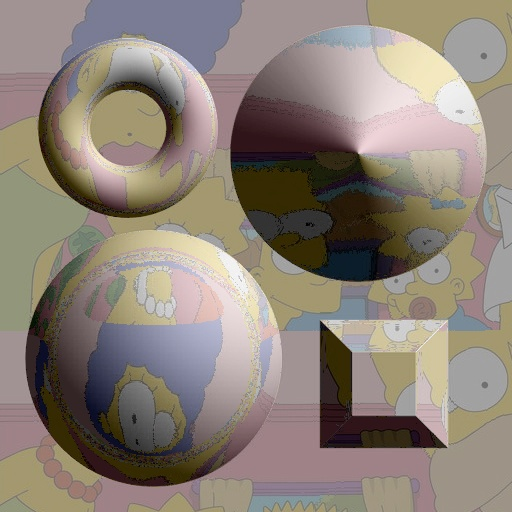
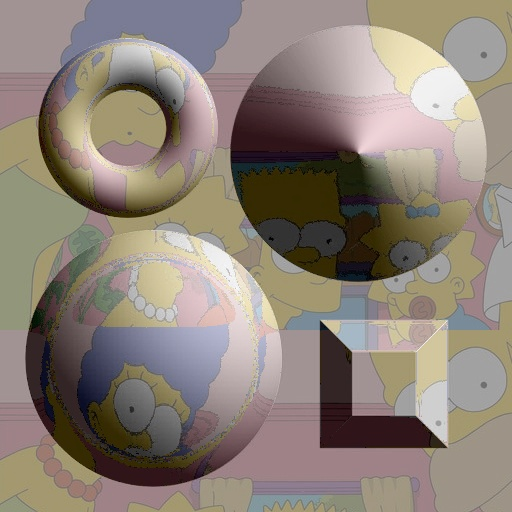
feat: add fresnel option

diff --git a/shaders.py b/shaders.py
@@ -3,7 +3,8 @@ import numpy as np
 import utils
 from constants import MAX_COLOR_VALUE, COLOR_FOR_LIGHT, COLOR_FOR_BORDER
 
-DISTANCE_TO_ENV_MAP = 10
+DISTANCE_TO_ENV_MAP = 5
+DISTANCE_TO_BACKGROUND_MAP = 120
 
 
 def shade(n, l):
@@ -162,9 +163,58 @@ def shade_refraction(n, l, kr, ior, i, j, background_arr):
     # This is just in case you want to try different values of d, it's actually
     # a trick to do this, since d would be different for each shading point
     # if cT is different for each shading point
-    d = 120
+    d = DISTANCE_TO_BACKGROUND_MAP
     i_prime = (int(round(aT * (d / cT))) + i) % w
     j_prime = (int(round(bT * (d / cT))) + j) % h
     refracted_color = background_arr[j_prime][i_prime]
     color = (1 - kr) * color + kr * refracted_color
+    return color
+
+
+def shade_fresnel(n, l, kr, ior, i, j, env_arr, background_arr):
+    greyscale_color = shade(n, l)
+    color = np.array([greyscale_color, greyscale_color, greyscale_color])
+    v = np.array([0, 0, 1])
+    cos_theta = np.dot(v, n)
+    sin_theta = np.sqrt((1 - cos_theta ** 2))
+    x1 = np.sin(utils.degree2radians(56))
+    x2 = np.sin(utils.degree2radians(90))
+    y0 = 0.1
+    if sin_theta < x1:
+        fresnel = y0 * (1 - (sin_theta / x1))
+    elif sin_theta < x2:
+        fresnel = (sin_theta - x1) / (x2 - x1)
+        fresnel = max(3 * fresnel, 1)
+    else:
+        fresnel = 1
+        print(sin_theta, fresnel)
+    # -------------------------------------------------------------------------
+    # Reflection
+    a, b, c = n
+    h, w = env_arr.shape[:2]
+    i_prime = (2 * a * c * DISTANCE_TO_ENV_MAP) / (-1 + 2 * (c ** 2)) + i
+    j_prime = (2 * b * c * DISTANCE_TO_ENV_MAP) / (-1 + 2 * (c ** 2)) + j
+    i_prime = int(round(i_prime)) % w
+    j_prime = int(round(j_prime)) % h
+    reflected_color = env_arr[j_prime][i_prime]
+    # -------------------------------------------------------------------------
+    # Refraction
+    h, w = background_arr.shape[:2]
+    term = 1 - (1 - cos_theta ** 2) * (ior ** 2)
+    # If term is negative there is no refraction
+    if term < 0:
+        return color
+    T = -1 * v / ior + ((cos_theta / ior) - np.sqrt(term)) * n
+    T = utils.normalize(T)
+    aT, bT, cT = T
+    # This is just in case you want to try different values of d, it's actually
+    # a trick to do this, since d would be different for each shading point
+    # if cT is different for each shading point
+    d = DISTANCE_TO_BACKGROUND_MAP
+    i_prime = (int(round(aT * (d / cT))) + i) % w
+    j_prime = (int(round(bT * (d / cT))) + j) % h
+    refracted_color = background_arr[j_prime][i_prime]
+    # -------------------------------------------------------------------------
+    mix_fresnel = fresnel * reflected_color + (1 - fresnel) * refracted_color
+    color = (1 - kr) * color + kr * mix_fresnel
     return color

diff --git a/main.py b/main.py
@@ -162,6 +162,29 @@ def use_refraction(normals, w, h, kr, ior):
     return output
 
 
+def use_fresnel(normals, w, h, kr, ior):
+    env_img = Image.open(ENV_IMAGE_FILENAME)
+    env_arr = np.asarray(env_img)
+    background_img = Image.open(BACKGROUND_IMAGE_FILENAME)
+    background_arr = np.asarray(background_img)
+    print("Shading using fresnel...")
+    output = np.zeros((h, w, RGB_CHANNELS), dtype=np.uint8)
+    counter = 0
+    step_counter = 1
+    step_size = np.ceil((w * h * PERCENTAGE_STEP) / 100).astype('int')
+    for i in range(w):
+        for j in range(h):
+            n = normals[j][i]
+            output[j][i] = shaders.shade_fresnel(
+                n, L, kr, ior, i, j, env_arr, background_arr
+            )
+            if counter % step_size == 0 and counter > 0:
+                print("{}%".format(step_counter * PERCENTAGE_STEP))
+                step_counter += 1
+            counter += 1
+    return output
+
+
 def use_colors(normals, w, h):
     output = np.zeros((w, h, RGB_CHANNELS), dtype=np.uint8)
     print("Shading between light and dark colors...")
@@ -224,6 +247,7 @@ def main():
             "[5] diffuse + specular + border\n"
             "[6] reflection\n"
             "[7] refraction\n"
+            "[8] fresnel\n"
         )
     )
     if shading_opt == '1':
@@ -251,11 +275,15 @@ def main():
     elif shading_opt == '6':
         kr = 0.25
         output = use_reflection(normals, w, h, kr)
-    else:
+    elif shading_opt == '7':
         kr = 0.25
         # ior = float(input("Enter Index of Refraction\n"))
         ior = 0.66
         output = use_refraction(normals, w, h, kr, ior)
+    else:
+        kr = 0.25
+        ior = 0.66
+        output = use_fresnel(normals, w, h, kr, ior)
     # Turn output into image and show it
     im_output = Image.fromarray(output)
     output_img_filename = (

diff --git a/utils.py b/utils.py
@@ -37,3 +37,7 @@ def adjust(normal_map_pixel):
     z = b / float(MAX_COLOR_VALUE)
     normal_vector = np.array([x, y, z])
     return normalize(normal_vector)
+
+
+def degree2radians(degrees):
+    return (degrees / 360) * 2 * np.pi
